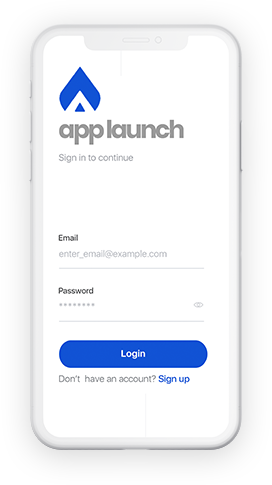
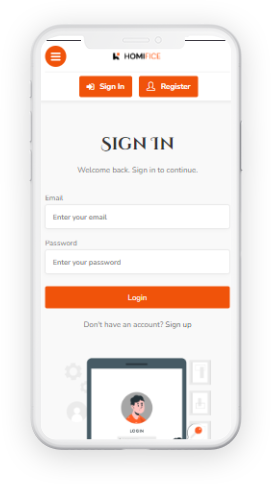
code cleanup

diff --git a/index.html b/index.html
@@ -114,6 +114,8 @@
 									Demo on</span>YouTube</a>
 							<a href="#" class="btn-download btn-android"><i class="fa fa-external-link"></i> <span>View
 									on</span>Live Site</a>
+									<a href="#" class="btn-download btn-github"><i class="fa fa-github"></i> <span>View
+										Source Code</span>GitHub</a>
 						</div>
 					</div>
 					<!-- Header Content end -->
@@ -390,10 +392,12 @@
 							journey to revolutionize how we manage hospitality.</p>
 
 						<div class="download-button">
-							<a href="#" class="btn-download btn-apple"><i class="fa fa-apple"></i> <span>Download on
-									the</span>App Store</a>
-							<a href="#" class="btn-download btn-android"><i class="fa fa-android"></i> <span>Get in
-									on</span>Google Play</a>
+						<a href="#" class="btn-download btn-youtube"><i class="fa fa-youtube-play"></i> <span>Watch
+								Demo on</span>YouTube</a>
+						<a href="#" class="btn-download btn-android"><i class="fa fa-external-link"></i> <span>View
+								on</span>Live Site</a>
+						<a href="#" class="btn-download btn-github"><i class="fa fa-github"></i> <span>View
+								Source Code</span>GitHub</a>
 						</div>
 					</div>
 					<!-- Overview content end -->
@@ -471,8 +475,7 @@
 				<div class="col-md-12">
 					<div class="section-title wow fadeInUp">
 						<h2>Application Layouts</h2>
-						<p>Lorem Ipsum is simply dummy text of the printing and typesetting industry. <br />Lorem Ipsum
-							has been the industry's standard dummy</p>
+						<p>Take a view of the mobile and dekstop view of the app</p>
 					</div>
 				</div>
 			</div>
@@ -484,8 +487,8 @@
 							<!-- Screenshot slide start -->
 							<div class="swiper-slide">
 								<div class="screenshot-slide">
-									<img src="images/overview.png" alt="" />
-									<p>Lorem Ipsum is simply dummy text of the printing and typesetting industry.</p>
+									<img src="images/screenshot-1.png" alt="" />
+									<p>Sign in page for returning users.</p>
 								</div>
 							</div>
 							<!-- Screenshot slide end -->
@@ -494,7 +497,7 @@
 							<div class="swiper-slide">
 								<div class="screenshot-slide">
 									<img src="images/screenshot-2.png" alt="" />
-									<p>Lorem Ipsum is simply dummy text of the printing and typesetting industry.</p>
+									<p>Sign up page for new users</p>
 								</div>
 							</div>
 							<!-- Screenshot slide end -->
@@ -503,7 +506,7 @@
 							<div class="swiper-slide">
 								<div class="screenshot-slide">
 									<img src="images/screenshot-3.png" alt="" />
-									<p>Lorem Ipsum is simply dummy text of the printing and typesetting industry.</p>
+									<p>Single Hotel details page.</p>
 								</div>
 							</div>
 							<!-- Screenshot slide end -->
@@ -511,8 +514,8 @@
 							<!-- Screenshot slide start -->
 							<div class="swiper-slide">
 								<div class="screenshot-slide">
-									<img src="images/screenshot-4.png" alt="" />
-									<p>Lorem Ipsum is simply dummy text of the printing and typesetting industry.</p>
+									<img src="images/overview.png" alt="" />
+									<p>User dashboard view.</p>
 								</div>
 							</div>
 							<!-- Screenshot slide end -->
@@ -531,85 +534,6 @@
 	</section>
 	<!-- Screenshot section ends -->
 
-	<!-- Testimonial section starts -->
-	<section class="testimonials" id="testimonial">
-		<div class="container">
-			<div class="row">
-				<div class="col-md-12">
-					<div class="section-title wow fadeInUp">
-						<h2>Testimonial</h2>
-						<p>Lorem Ipsum is simply dummy text of the printing and typesetting industry. <br />Lorem Ipsum
-							has been the industry's standard dummy</p>
-					</div>
-				</div>
-			</div>
-
-			<div class="row">
-				<div class="col-md-12">
-					<div class="swiper-container testimonial-slider">
-						<div class="swiper-wrapper">
-							<!-- Testimonial slide start -->
-							<div class="swiper-slide">
-								<div class="testimonial-slide">
-									<h3>Quickly Response & Supports</h3>
-									<p>Lorem Ipsum is simply dummy text of the printing and typesetting industry. Lorem
-										Ipsum has been the industry's standard dummy text ever since the 1500s, when an
-										unknown printer took a galley of type and scrambled it to make a type specimen
-										book.</p>
-								</div>
-							</div>
-							<!-- Testimonial slide end -->
-
-							<!-- Testimonial slide start -->
-							<div class="swiper-slide">
-								<div class="testimonial-slide">
-									<h3>Quickly Response & Supports</h3>
-									<p>Lorem Ipsum is simply dummy text of the printing and typesetting industry. Lorem
-										Ipsum has been the industry's standard dummy text ever since the 1500s, when an
-										unknown printer took a galley of type and scrambled it to make a type specimen
-										book.</p>
-								</div>
-							</div>
-							<!-- Testimonial slide end -->
-
-							<!-- Testimonial slide start -->
-							<div class="swiper-slide">
-								<div class="testimonial-slide">
-									<h3>Quickly Response & Supports</h3>
-									<p>Lorem Ipsum is simply dummy text of the printing and typesetting industry. Lorem
-										Ipsum has been the industry's standard dummy text ever since the 1500s, when an
-										unknown printer took a galley of type and scrambled it to make a type specimen
-										book.</p>
-								</div>
-							</div>
-							<!-- Testimonial slide end -->
-
-							<!-- Testimonial slide start -->
-							<div class="swiper-slide">
-								<div class="testimonial-slide">
-									<h3>Quickly Response & Supports</h3>
-									<p>Lorem Ipsum is simply dummy text of the printing and typesetting industry. Lorem
-										Ipsum has been the industry's standard dummy text ever since the 1500s, when an
-										unknown printer took a galley of type and scrambled it to make a type specimen
-										book.</p>
-								</div>
-							</div>
-							<!-- Testimonial slide end -->
-						</div>
-					</div>
-
-					<!-- Testimonial Pagination button start -->
-					<div class="testimonial-pagination">
-						<div class="testimonial-prev"><i class="fa fa-arrow-left"></i></div>
-						<div class="testimonial-next"><i class="fa fa-arrow-right"></i></div>
-					</div>
-					<!-- Testimonial Pagination button end -->
-				</div>
-			</div>
-		</div>
-	</section>
-	<!-- Testimonial section ends -->
-
 	<!-- FAQs Section starts -->
 	<section class="faqs" id="faq">
 		<div class="container">
@@ -617,8 +541,7 @@
 				<div class="col-md-12">
 					<div class="section-title wow fadeInUp">
 						<h2>Do You have questions?</h2>
-						<p>Lorem Ipsum is simply dummy text of the printing and typesetting industry. <br />Lorem Ipsum
-							has been the industry's standard dummy</p>
+						<p>We've selected top 3 most asked questions</p>
 					</div>
 				</div>
 			</div>
@@ -628,12 +551,13 @@
 					<!-- Faq Single start -->
 					<div class="faq-single faq-pink wow fadeInUp" data-wow-delay="0.2s">
 						<div class="faq-title">
-							<h3>How it works?</h3>
+							<h3>How do I create an account on Homifice??</h3>
 						</div>
 
 						<div class="faq-entry">
-							<p>Lorem Ipsum is simply dummy text of the printing and typesetting industry. Lorem Ipsum
-								has been the industry's standard dummy text ever since the 1500s, dummy text ever since.
+							<p>Creating an account on Homifice is simple and free. Just click on the "Sign Up" button on the homepage, fill in your details, and follow the instructions to complete the registration process. Once registered, you can start managing your hotel reservations immediately.
+
+
 							</p>
 						</div>
 					</div>
@@ -644,12 +568,11 @@
 					<!-- Faq Single start -->
 					<div class="faq-single faq-yellow wow fadeInUp" data-wow-delay="0.4s">
 						<div class="faq-title">
-							<h3>Is that safe to use?</h3>
+							<h3>Can I Cancel or Modify My <br>Booking ?</h3>
 						</div>
 
 						<div class="faq-entry">
-							<p>Lorem Ipsum is simply dummy text of the printing and typesetting industry. Lorem Ipsum
-								has been the industry's standard dummy text ever since the 1500s, dummy text ever since.
+							<p>Yes, you can cancel or modify your reservation through the Homifice app. Simply log in to your account, go to your booking history, and select the reservation you wish to change. Follow the prompts to make any necessary adjustments or cancellations.
 							</p>
 						</div>
 					</div>
@@ -660,65 +583,18 @@
 					<!-- Faq Single start -->
 					<div class="faq-single faq-skyblue wow fadeInUp" data-wow-delay="0.6s">
 						<div class="faq-title">
-							<h3>Why use app launch?</h3>
+							<h3>What payment methods are accepted on Homifice ?</h3>
 						</div>
 
 						<div class="faq-entry">
-							<p>Lorem Ipsum is simply dummy text of the printing and typesetting industry. Lorem Ipsum
-								has been the industry's standard dummy text ever since the 1500s, dummy text ever since.
+							<p>We accept a variety of payment methods, including cards (credit and debit), online bank transfers, and popular digital wallets. All payments are processed securely to ensure your financial information is protected. You will receive a confirmation email once your payment is completed.
 							</p>
 						</div>
 					</div>
 					<!-- Faq Single end -->
 				</div>
 
-				<div class="col-md-4 col-sm-6">
-					<!-- Faq Single start -->
-					<div class="faq-single faq-blue wow fadeInUp" data-wow-delay="0.8s">
-						<div class="faq-title">
-							<h3>How it works?</h3>
-						</div>
-
-						<div class="faq-entry">
-							<p>Lorem Ipsum is simply dummy text of the printing and typesetting industry. Lorem Ipsum
-								has been the industry's standard dummy text ever since the 1500s, dummy text ever since.
-							</p>
-						</div>
-					</div>
-					<!-- Faq Single end -->
-				</div>
-
-				<div class="col-md-4 col-sm-6">
-					<!-- Faq Single start -->
-					<div class="faq-single faq-pink wow fadeInUp" data-wow-delay="1.0s">
-						<div class="faq-title">
-							<h3>Why use app launch?</h3>
-						</div>
-
-						<div class="faq-entry">
-							<p>Lorem Ipsum is simply dummy text of the printing and typesetting industry. Lorem Ipsum
-								has been the industry's standard dummy text ever since the 1500s, dummy text ever since.
-							</p>
-						</div>
-					</div>
-					<!-- Faq Single end -->
-				</div>
-
-				<div class="col-md-4 col-sm-6">
-					<!-- Faq Single start -->
-					<div class="faq-single faq-blue wow fadeInUp" data-wow-delay="1.2s">
-						<div class="faq-title">
-							<h3>Is that safe to use?</h3>
-						</div>
-
-						<div class="faq-entry">
-							<p>Lorem Ipsum is simply dummy text of the printing and typesetting industry. Lorem Ipsum
-								has been the industry's standard dummy text ever since the 1500s, dummy text ever since.
-							</p>
-						</div>
-					</div>
-					<!-- Faq Single end -->
-				</div>
+				
 			</div>
 		</div>
 	</section>
@@ -803,6 +679,8 @@
 							Demo on</span>YouTube</a>
 					<a href="#" class="btn-download btn-android"><i class="fa fa-external-link"></i> <span>View
 							on</span>Live Site</a>
+							<a href="#" class="btn-download btn-github"><i class="fa fa-github"></i> <span>View
+								Source Code</span>GitHub</a>
 					</div>
 				</div>
 			</div>

diff --git a/css/custom.css b/css/custom.css
@@ -438,6 +438,10 @@ a:focus{
 	background: linear-gradient(#f33101, #f38e0b);
 }
 
+.btn-github{
+	background: linear-gradient(#1b1b1b, #555555);
+}
+
 .btn-android{
 	background: #f39301;
 	background: linear-gradient(#f39301,#fed30a);
